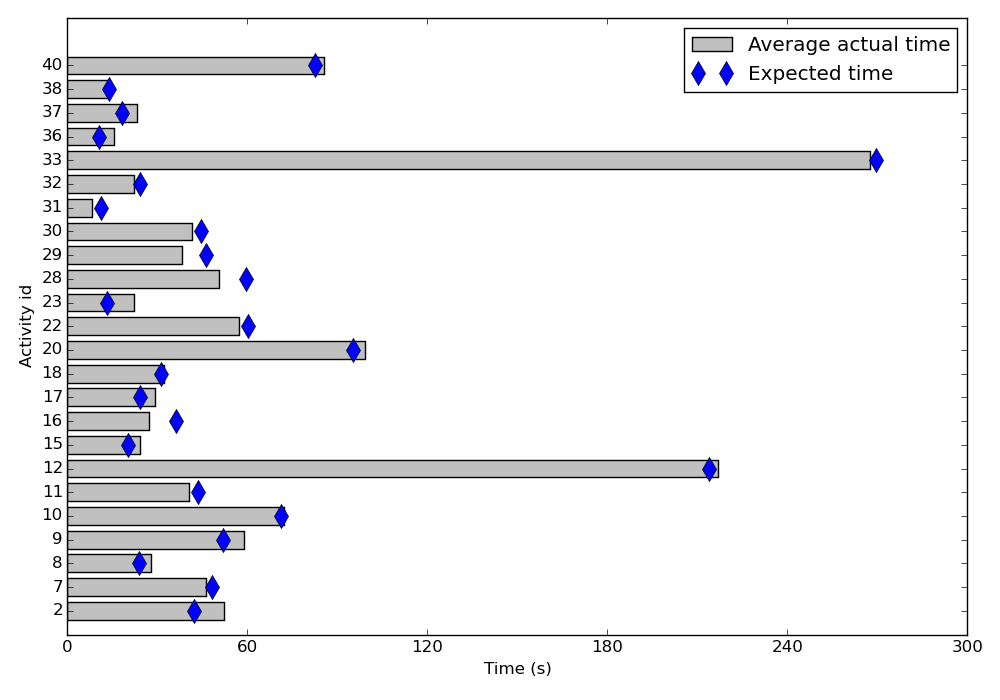
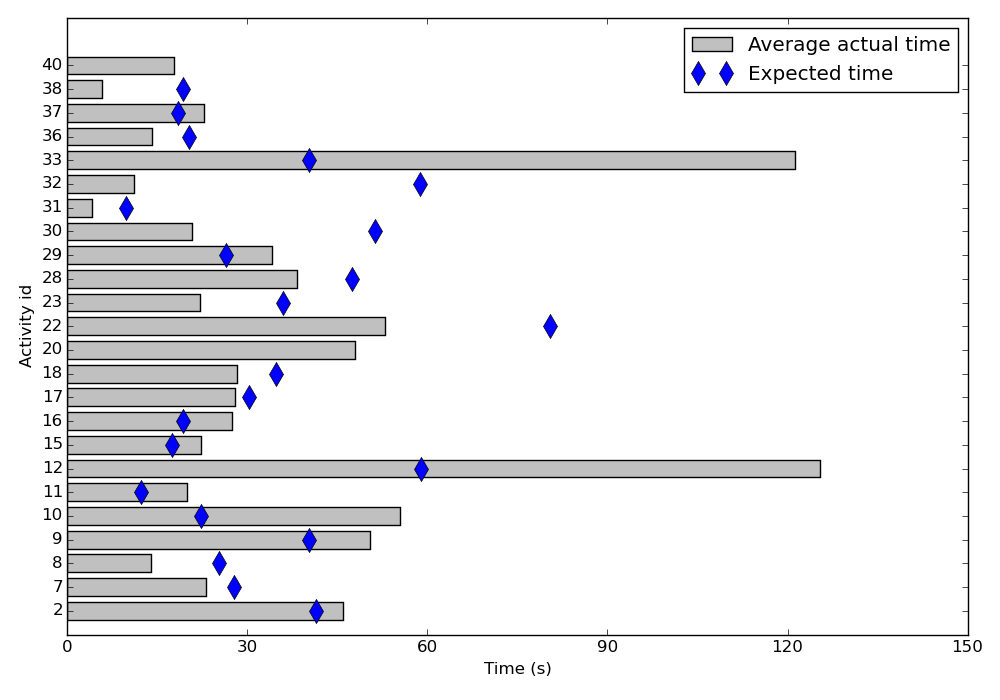
mise à jour plot 5 avec données attendues

diff --git a/dataMining/plot5.py b/dataMining/plot5.py
@@ -13,6 +13,32 @@ conn = sqlite3.connect(r'student.db')
 c = conn.cursor()
 fig = plt.figure(figsize=(10,7))
 
+dico = {}
+dico[2]=41.5
+dico[7]=27.75
+dico[8]=25.25
+dico[9]=40.25
+dico[10]=22.25
+dico[11]=12.25
+dico[12]=59
+dico[15]=17.5
+dico[16]=19.25
+dico[17]=30.25
+dico[18]=34.75
+dico[22]=80.5
+dico[23]=36
+dico[28]=47.5
+dico[29]=26.5
+dico[30]=51.25
+dico[31]=9.75
+dico[32]=58.75
+dico[33]=40.25
+dico[36]=20.25
+dico[37]=18.5
+dico[38]=19.25
+
+
+
 t=[]
 x=[]
 y=[]
@@ -24,7 +50,11 @@ i=0
 for row in requete:
 	y.append(row[0])
 	x.append(row[1])
-	z.append(row[1]+random.randrange(-10,10))
+#	z.append(row[1]+random.randrange(-10,10))
+	if row[0] in dico:
+		z.append(dico[row[0]])
+	else:
+		z.append(-10)
 	t.append(i)
 	i=i+1
 
@@ -35,7 +65,8 @@ bars = plt.barh(yvals,x,0.75,align='center',color='#c0c0c0')
 
 #plt.title("Time spent reading the memo sheet (per activity)")
 
-plt.xticks([0,60,120,180,240,300])
+plt.xticks([0,30,60,90,120,150])
+plt.xlim(0,150)
 plt.yticks(yvals,y)
 plt.ylim((-1,len(yvals)+1))
 
@@ -47,4 +78,4 @@ plt.legend([bars, diamonds], ["Average actual time", "Expected time"])
 
 plt.tight_layout()
 #plt.show()
-fig.savefig("plot5.pdf")
+fig.savefig("plot5.png")
